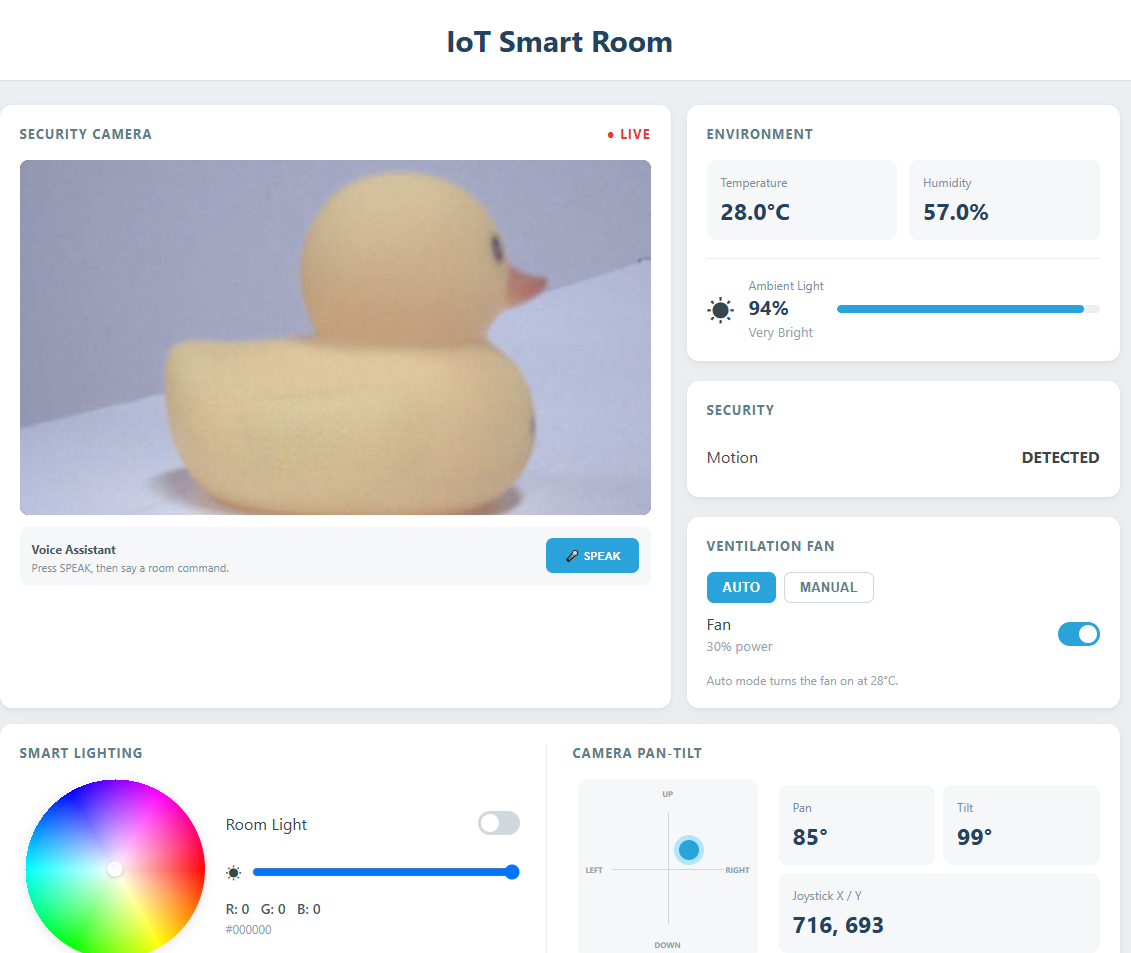
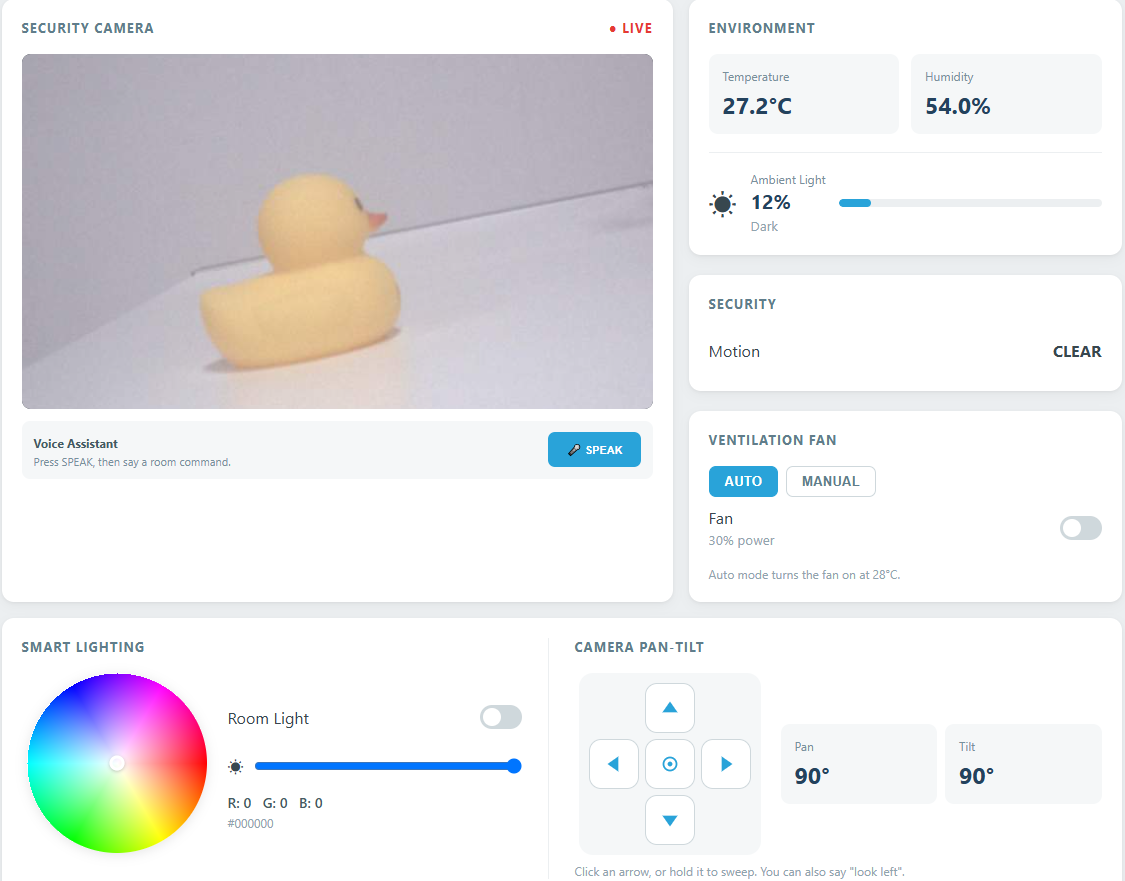
iot/12: document the web camera control and refresh the result image

diff --git a/docs/source/iot/12_iot_smart_room.rst b/docs/source/iot/12_iot_smart_room.rst
@@ -5,7 +5,7 @@
 12 IoT Smart Room
 ======================
 
-This is the finale of the IoT module — everything you've learned in one room. Sensors watch the environment, a fan ventilates automatically, the camera streams live video, a joystick and your voice aim the pan-tilt, an RGB LED lights the room in any color, and the board answers you aloud. Welcome to your **IoT Smart Room**.
+This is the finale of the IoT module — everything you've learned in one room. Sensors watch the environment, a fan ventilates automatically, the camera streams live video, the control panel and your voice aim the pan-tilt, an RGB LED lights the room in any color, and the board answers you aloud. Welcome to your **IoT Smart Room**.
 
 .. image:: img/iot_smart_room.png
    :width: 600
@@ -36,13 +36,13 @@ In this lesson, you will learn to:
      - |list_pir|
      - |list_rgb_led|
    * - 1 * :ref:`cpn_photoresistor`
-     - 1 * :ref:`cpn_joystick`
      - 1 * :ref:`cpn_breadboard`
      - Several :ref:`cpn_wires`
+     - -
    * - |list_photoresistor|
-     - |list_joystick_module|
      - |list_breadboard|
      - |list_wire|
+     - -
    * - 3 * :ref:`cpn_resistor` (220Ω)
      - 1 * :ref:`cpn_resistor` (10kΩ)
      - 1 * USB Cable
@@ -82,7 +82,6 @@ This project uses the following Bricks and sketch libraries:
 - RGB LED **R/G/B** → **D8/D7/D6**, each through a 220Ω resistor
 - Pan servo → **D9**, Tilt servo → **D10**
 - Photoresistor → **A0** (with a 10kΩ fixed resistor to GND)
-- Joystick **X** → **A3**, Joystick **Y** → **A2**, Joystick **VCC** → **3.3V**, **GND** → **GND**
 
 .. image:: /img/wiring/wiring_smart_room.png
    :width: 600
@@ -102,9 +101,9 @@ This project uses the following Bricks and sketch libraries:
 
    *"IoT Smart Room ready."*
 
-#. Open the **Web UI** tab. You'll see the live camera feed, temperature and humidity, light level, PIR motion status, and the joystick position. Try the controls:
+#. Open the **Web UI** tab. You'll see the live camera feed, temperature and humidity, light level, PIR motion status, and the pan-tilt arrow pad. Try the controls:
 
-   * Move the physical joystick — the pan-tilt follows, and the indicator moves on the page.
+   * Click an arrow on the **Camera Pan-Tilt** panel — the camera nudges one step (10°), and holding an arrow sweeps it. The centre button returns both servos to 90°.
    * Pick a color from the color wheel — the RGB LED changes to match.
    * Set the fan to **MANUAL** and toggle it on — the fan spins at 30% power.
    * Click the **voice** button and say a command, for example *"Set light blue"* or *"System status"* — the board confirms aloud.
@@ -132,11 +131,10 @@ This project uses the following Bricks and sketch libraries:
            P->>P: camera.capture() → JPEG
            P-->>B: camera_frame
        end
-       loop every 60 ms
-           S->>S: read joystick, move servos
-           S-->>P: Bridge.notify("joystick_update")
-           P-->>B: camera_control_update
-       end
+       B->>P: pan_tilt_move (arrow pad)
+       P->>S: Bridge.call("pan_step" / "tilt_step" / "center")
+       S-->>P: new pan / tilt angle
+       P-->>B: camera_control_update
        B->>P: set_rgb_color (color wheel)
        P->>S: Bridge.call("set_rgb_color", r, g, b)
        Note over P: voice button pressed
@@ -146,21 +144,43 @@ This project uses the following Bricks and sketch libraries:
 
 **Sketch (sketch.ino)** — runs on the STM32 MCU
 
-* The sketch owns the sensors and actuators: it reads the DHT11, PIR, photoresistor, and joystick, and drives the fan, RGB LED, and servos with ``analogWrite()`` and the ``Arduino_HardwareServo`` library.
-* ``updateFan()`` respects the **System Run** switch — when the system is off, the fan stops, the RGB LED turns off, and the servos return to the 90° center.
+* The sketch owns the sensors and actuators: it reads the DHT11, PIR, and photoresistor, and drives the fan, RGB LED, and servos with ``analogWrite()`` and the ``Arduino_HardwareServo`` library.
+* ``setSystemRunning()`` is a global stop — when the system is off, the fan stops, the RGB LED turns off, and both servos return to the 90° center. The app leaves the system running; the Challenge below uses it.
 * The fan runs at 30% power: ``analogWrite(MOTOR_IN1_PIN, FAN_PWM)`` where ``FAN_PWM = 255 * 30 / 100``.
-* Eight Bridge RPCs are registered (``set_fan_enabled``, ``set_rgb_color``, ``set_system_running``, and the five servo functions), and two ``Bridge.notify()`` streams push sensor and joystick data to Python.
+* Ten Bridge RPCs are registered (``set_fan_enabled``, ``set_rgb_color``, ``set_system_running``, the five servo presets, and ``pan_step`` / ``tilt_step`` for the arrow pad), and one ``Bridge.notify()`` stream pushes the sensor readings to Python.
 
 **Python (main.py)** — runs on the Linux MPU
 
 * ``environment_update`` stores the latest sensor values and runs the **automatic fan loop**: in AUTO mode, the fan turns on when the temperature reaches ``AUTO_FAN_ON_TEMP`` (28°C) and off below it.
 * The camera streams about 4 frames per second (``STREAM_INTERVAL = 0.25``) as JPEG images to the Web UI.
+* The **pan-tilt arrow pad** sends ``pan_tilt_move`` (``left`` / ``right`` / ``up`` / ``down`` / ``center``). Python nudges the servo with ``Bridge.call("pan_step", ±10)`` and sends the new angle back, so the Pan and Tilt readouts always match the hardware.
 * The **voice assistant** listens for 4 seconds, matches the recognized text against a command table, and speaks a confirmation — color names are matched with ``"set light <color>"`` phrases, and *"System status"* speaks a summary of the room: temperature, humidity, light, motion, fan, and light color.
 * A custom color is remembered as ``last_nonzero_rgb``, so *"Light on"* restores the last color instead of a fixed one.
 * When the app stops, Python switches the fan off, turns the light off, and stops the camera — a clean shutdown.
 
 3. Experiment
 ----------------
+
+**Aim the Camera from the Web UI**
+
+Use the **Camera Pan-Tilt** arrow pad on the control panel:
+
+.. list-table::
+   :header-rows: 1
+   :widths: 45 55
+
+   * - You do
+     - Expected result
+   * - Click ◀ / ▶
+     - The camera pans left / right by 10° and the Pan readout follows
+   * - Click ▲ / ▼
+     - The camera tilts up / down by 10° and the Tilt readout follows
+   * - Hold an arrow
+     - The camera sweeps smoothly until you let go
+   * - Click ●
+     - Both servos return to 90°
+
+The camera stops at its limits — pan 45°–135°, tilt 45°–115° — so a nudge past the end has no visible effect.
 
 **Control the Room by Voice**
 
@@ -196,13 +216,13 @@ Add a new voice command to ``main.py`` — for example, *"Good night"*: switch t
 
 **The fan never spins**
 
-* **Cause:** The motor wires are on the wrong pins, or the System Run switch is off.
-* **Solution:** Check the motor connects to D2/D3, and that the **System Run** switch is on. In AUTO mode the fan only starts above 28°C — switch to MANUAL to test it directly.
+* **Cause:** The motor wires are on the wrong pins.
+* **Solution:** Check the motor connects to D2/D3. In AUTO mode the fan only starts above 28°C — switch to MANUAL to test it directly.
 
-**The servos don't move with the joystick**
+**The servos don't move**
 
-* **Cause:** The joystick isn't wired to A2/A3, or the System Run switch is off.
-* **Solution:** Check the joystick VCC goes to 3.3V, X to A3, Y to A2, and GND to GND. Turn the **System Run** switch on — the servos only follow the joystick while the system is running.
+* **Cause:** The servo signal wires are on the wrong pins, the servos have no power, or the angle is already at its limit.
+* **Solution:** Check the pan servo is on **D9** and the tilt servo on **D10**, and connect the battery — the servos need the battery or an external 5 V supply, USB alone cannot drive them. The camera also stops at its limits (pan 45°–135°, tilt 45°–115°), so nudging past the end does nothing.
 
 **Voice commands are never recognized**
 
